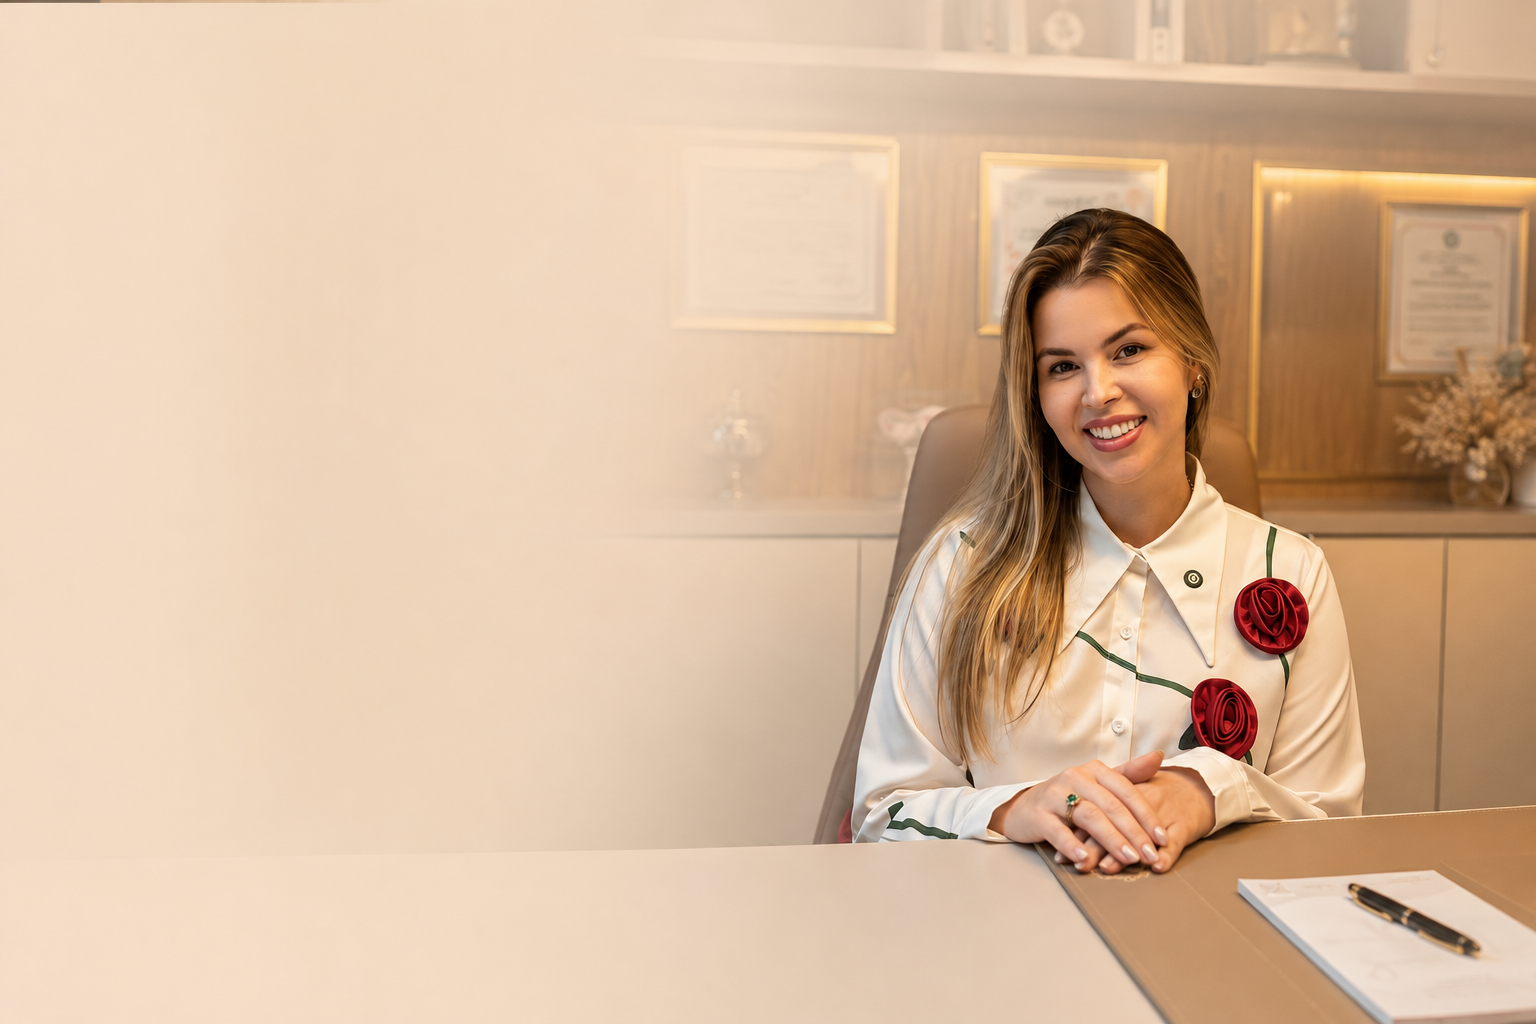
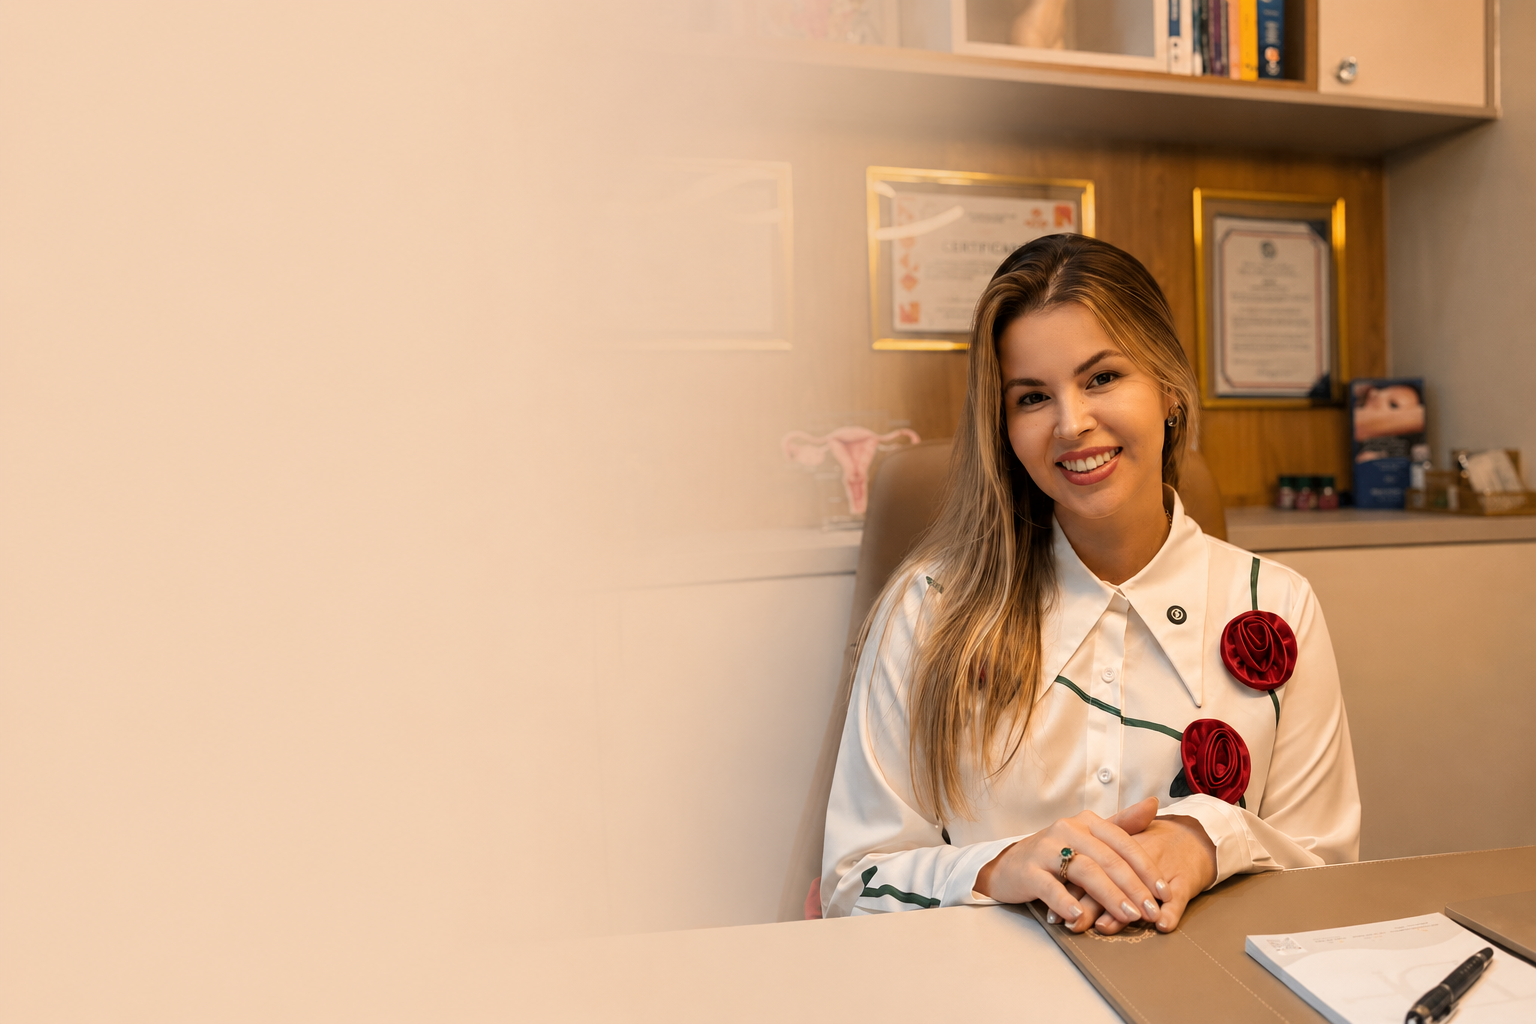
Troca imagem do hero desktop (fotonovapc.png) pela foto da dra

diff --git a/js/main.js b/js/main.js
@@ -201,7 +201,4 @@
         });
     });
 
-    // ---------- Tratamentos Lista (links suaves) ----------
-    // Não há mais carousel — os itens são links diretos.
-    // Evento opcional: scroll suave ao clicar (o browser já faz por padrão).
 })();
